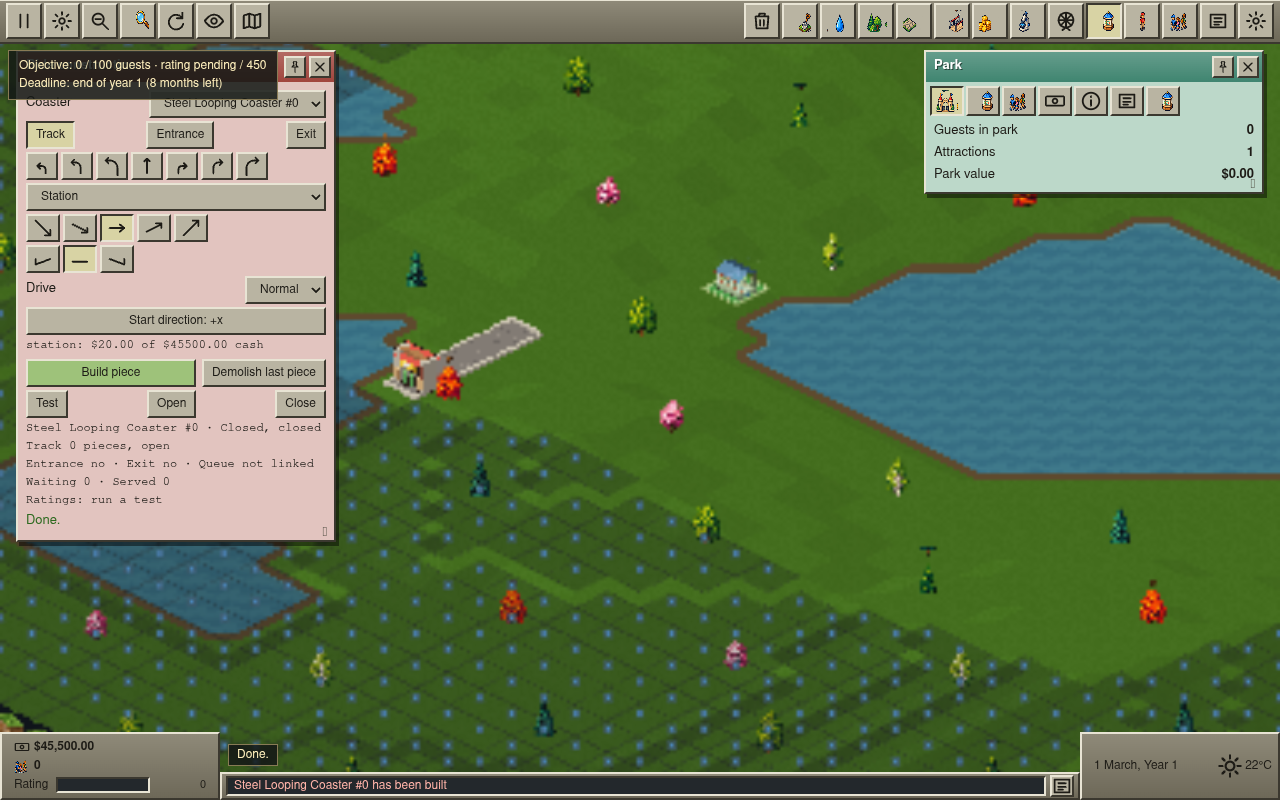
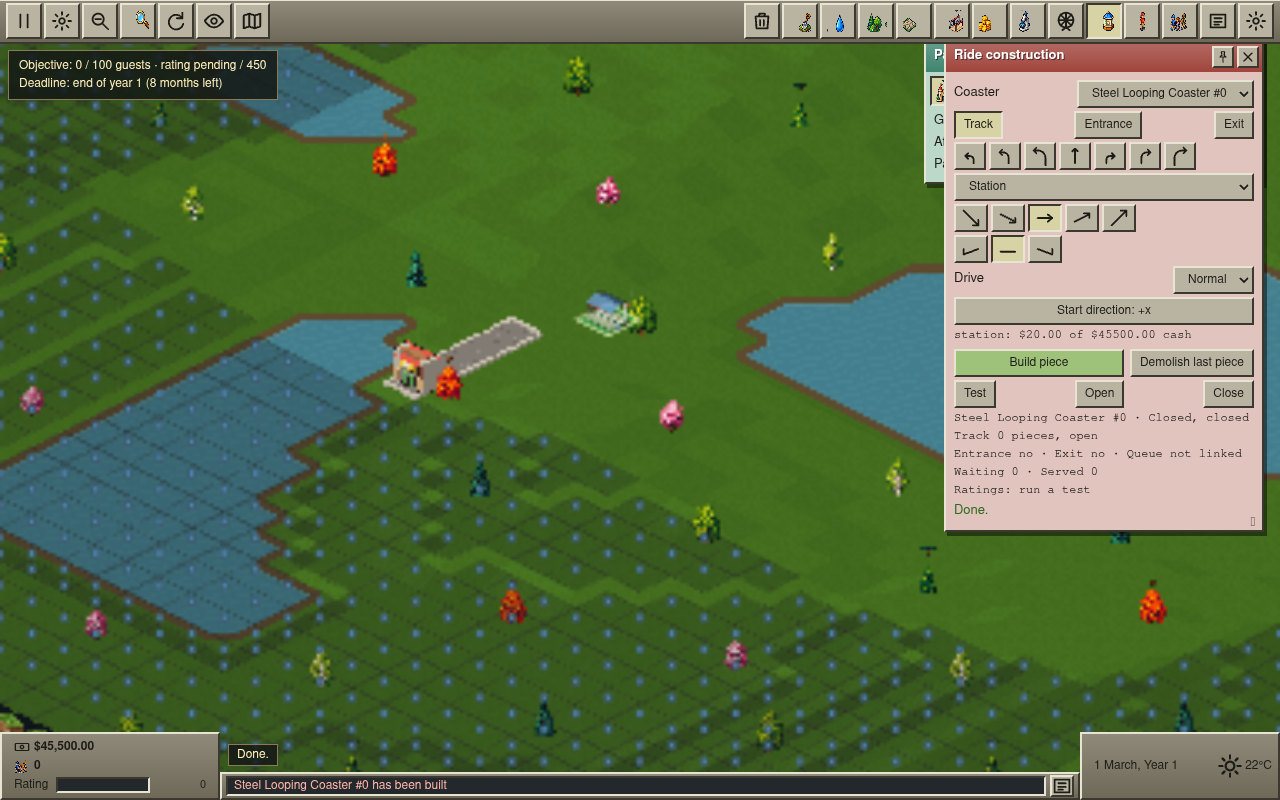
Avoid restoring windows over active panels

diff --git a/src/ui/window-manager.ts b/src/ui/window-manager.ts
@@ -1,6 +1,7 @@
 import { element, iconButton } from './dom';
 import type { IconName } from './icons';
 import {
+  BOTTOM_INSET,
   MOBILE_QUERY,
   TOP_INSET,
   cascadePosition,
@@ -203,19 +204,46 @@ export class WindowManager {
     this.layer.append(win.root);
     const fallback = cascadePosition(this.opened++, window.innerWidth, window.innerHeight);
     const remembered = this.positions.get(spec.id);
+    const openingPointer = this.pointer;
     const place = (): void => {
       if (!win.root.isConnected || this.mobile) return;
       const bounds = win.root.getBoundingClientRect();
       const size = { width: bounds.width || spec.width || 340, height: bounds.height || 260 };
-      const at = remembered
+      const placementSize = remembered
+        ? size
+        : {
+            width: size.width,
+            height: Math.max(size.height, window.innerHeight - TOP_INSET - BOTTOM_INSET - 4),
+          };
+      const occupied = [...this.windows.values()]
+        .filter((other) => other !== win)
+        .map((other) => {
+          const rect = other.root.getBoundingClientRect();
+          return { x: rect.left, y: rect.top, width: rect.width, height: rect.height };
+        });
+      const rememberedAt = remembered
         ? clampPosition(remembered.x, remembered.y, size, window.innerWidth, window.innerHeight)
-        : positionAwayFromPoint(
-            fallback,
-            size,
-            this.pointer,
-            window.innerWidth,
-            window.innerHeight,
-          );
+        : undefined;
+      const rememberedIsOccupied =
+        rememberedAt !== undefined &&
+        occupied.some(
+          (rect) =>
+            rememberedAt.x < rect.x + rect.width &&
+            rememberedAt.x + size.width > rect.x &&
+            rememberedAt.y < rect.y + rect.height &&
+            rememberedAt.y + size.height > rect.y,
+        );
+      const at =
+        rememberedAt && !rememberedIsOccupied
+          ? rememberedAt
+          : positionAwayFromPoint(
+              fallback,
+              remembered ? size : placementSize,
+              openingPointer,
+              window.innerWidth,
+              window.innerHeight,
+              occupied,
+            );
       win.root.style.setProperty('--x', `${at.x}px`);
       win.root.style.setProperty('--y', `${at.y}px`);
     };
@@ -263,7 +291,7 @@ export class WindowManager {
     const wasCollapsed = preserveCollapsed && win.root.classList.contains('collapsed');
     win.root.style.zIndex = String(win.pinned ? 1000 + ++this.z : ++this.z);
     for (const other of this.windows.values()) other.root.classList.toggle('front', other === win);
-    this.relayout();
+    if (this.mobile) this.relayout();
     if (wasCollapsed && !win.pinned) win.root.classList.add('collapsed');
   }
 

diff --git a/src/ui/window-layout.ts b/src/ui/window-layout.ts
@@ -5,7 +5,7 @@ export const MOBILE_QUERY = `(max-width: ${MOBILE_MAX_WIDTH}px)`;
 
 /** Space reserved above (toolbar) and below (status bar) the windows on desktop. */
 export const TOP_INSET = 40;
-const BOTTOM_INSET = 68;
+export const BOTTOM_INSET = 68;
 const GRAB = 40;
 
 export function isMobileWidth(width: number): boolean {
@@ -39,6 +39,7 @@ export function positionAwayFromPoint(
   point: Point,
   viewportWidth: number,
   viewportHeight: number,
+  occupied: ReadonlyArray<Point & { width: number; height: number }> = [],
 ): Point {
   const candidates = [
     { x: 16, y: TOP_INSET + 10 },
@@ -52,14 +53,31 @@ export function positionAwayFromPoint(
     point.y <= TOP_INSET + 180
       ? candidates.filter((candidate) => candidate.y > viewportHeight / 3)
       : candidates.filter((candidate) => candidate.y <= viewportHeight / 3);
-  const clear = vertical.filter(
+  const free = candidates.filter(
+    (candidate) =>
+      !occupied.some(
+        (rect) =>
+          candidate.x < rect.x + rect.width &&
+          candidate.x + size.width > rect.x &&
+          candidate.y < rect.y + rect.height &&
+          candidate.y + size.height > rect.y,
+      ),
+  );
+  const clear = free.filter(
     (candidate) =>
       point.x < candidate.x - 24 ||
       point.x > candidate.x + size.width + 24 ||
       point.y < candidate.y - 24 ||
       point.y > candidate.y + size.height + 24,
   );
-  const options = clear.length ? clear : [fallback];
+  const preferred = vertical.filter((candidate) => clear.includes(candidate));
+  const options = preferred.length
+    ? preferred
+    : clear.length
+      ? clear
+      : free.length
+        ? free
+        : [clampPosition(fallback.x, fallback.y, size, viewportWidth, viewportHeight)];
   return options.reduce((best, candidate) => {
     const distance = (at: Point): number =>
       Math.hypot(at.x + size.width / 2 - point.x, at.y + size.height / 2 - point.y);

diff --git a/e2e/deferred-ui.spec.ts b/e2e/deferred-ui.spec.ts
@@ -21,6 +21,11 @@ test('management windows, desktop resizing, options and screenshot shortcut', as
   await toolbar.getByRole('button', { name: 'Staff', exact: true }).click();
   const staff = page.locator('[data-panel="staff"]');
   await staff.getByRole('button', { name: 'Hire Handyman' }).click();
+  const mechanicsTab = staff.getByRole('tab', { name: 'Mechanics' });
+  await mechanicsTab.click();
+  await expect(mechanicsTab).toHaveAttribute('aria-selected', 'true');
+  await expect(staff.getByRole('button', { name: 'Hire Mechanic' })).toBeVisible();
+  await staff.getByRole('tab', { name: 'Handymen' }).click();
   const openWorker = staff.getByRole('button', { name: /Open Handyman .* details/ });
   await expect(openWorker).toBeVisible();
   await openWorker.click();
@@ -44,6 +49,9 @@ test('management windows, desktop resizing, options and screenshot shortcut', as
   const guests = toolbar.getByRole('button', { name: 'Guests', exact: true });
   await guests.click();
   const guestWindow = page.locator('[data-panel="guests"]');
+  const guestBounds = await guestWindow.boundingBox();
+  expect(guestBounds).not.toBeNull();
+  expect(guestBounds!.y + guestBounds!.height).toBeLessThanOrEqual(732);
   const beforeWidth = await guestWindow.evaluate((el) => el.getBoundingClientRect().width);
   const resize = guestWindow.getByRole('button', { name: 'Resize Guests window' });
   const resizeBox = await resize.boundingBox();

diff --git a/e2e/p1-ui-fidelity.spec.ts b/e2e/p1-ui-fidelity.spec.ts
@@ -29,7 +29,7 @@ async function placeCoaster(page: Page): Promise<void> {
   const canvas = page.locator('#game');
   const rect = await canvas.boundingBox();
   if (!rect) throw new Error('Game viewport is missing');
-  await page.mouse.click(...tileScreenPoint(rect, 28, 39, 28, 43));
+  await page.mouse.click(...tileScreenPoint(rect, 27, 42, 28, 43));
 }
 
 function tileScreenPoint(
@@ -48,6 +48,7 @@ function tileScreenPoint(
 }
 
 test('desktop construction controls fit above the fold', async ({ page }) => {
+  test.setTimeout(180_000);
   await startStarterPark(page);
   expect(
     await page.locator('#game').evaluate((canvas) => Boolean(canvas.getContext('webgl2'))),
@@ -68,10 +69,7 @@ test('desktop construction controls fit above the fold', async ({ page }) => {
   await page.screenshot({ path: 'docs/playtest/assets/p1-after-coaster-controls.png' });
 
   await page.getByRole('button', { name: 'Pause', exact: true }).click();
-  const gameBounds = await page.locator('#game').boundingBox();
-  if (!gameBounds) throw new Error('Game viewport is missing');
-  await page.mouse.move(...tileScreenPoint(gameBounds, 28, 38, 28, 43));
-  await page.waitForTimeout(100);
+  await expect(panel.getByRole('button', { name: 'Build piece' })).toBeEnabled();
   await panel.getByRole('button', { name: 'Build piece' }).click();
   await expect(page.locator('.coaster-info')).toContainText('Track 1 pieces');
 

diff --git a/src/ui/window-layout.test.ts b/src/ui/window-layout.test.ts
@@ -52,6 +52,34 @@ describe('window layout', () => {
     expect(position.y + size.height).toBeLessThanOrEqual(800 - 68);
   });
 
+  it('clamps the fallback position when no corner clears the pointer', () => {
+    const position = positionAwayFromPoint(
+      { x: 640, y: 700 },
+      { width: 900, height: 700 },
+      { x: 640, y: 400 },
+      1280,
+      800,
+    );
+
+    expect(position.y).toBe(40);
+  });
+
+  it('chooses another clear corner when a window already occupies the preferred one', () => {
+    const size = { width: 340, height: 260 };
+    const point = { x: 1180, y: 20 };
+    const first = positionAwayFromPoint({ x: 788, y: 162 }, size, point, 1280, 800);
+    const second = positionAwayFromPoint({ x: 760, y: 190 }, size, point, 1280, 800, [
+      { ...first, ...size },
+    ]);
+
+    const overlaps =
+      second.x < first.x + size.width &&
+      second.x + size.width > first.x &&
+      second.y < first.y + size.height &&
+      second.y + size.height > first.y;
+    expect(overlaps).toBe(false);
+  });
+
   it('limits four-times speed to two-times while construction is active', () => {
     expect(effectiveGameSpeed(4, true)).toBe(2);
     expect(effectiveGameSpeed(4, false)).toBe(4);

diff --git a/e2e/starter-playtest.spec.ts b/e2e/starter-playtest.spec.ts
@@ -141,6 +141,16 @@ test('plays the starter park shell and exercises save file round trips', async (
   await screenshot('08-finances');
 
   await toolbarButton('Park').click();
+  const financeBounds = await page.locator('[data-panel="finance"]').boundingBox();
+  const parkBounds = await page.locator('[data-panel="park"]').boundingBox();
+  expect(financeBounds).not.toBeNull();
+  expect(parkBounds).not.toBeNull();
+  expect(
+    parkBounds!.x + parkBounds!.width <= financeBounds!.x ||
+      financeBounds!.x + financeBounds!.width <= parkBounds!.x ||
+      parkBounds!.y + parkBounds!.height <= financeBounds!.y ||
+      financeBounds!.y + financeBounds!.height <= parkBounds!.y,
+  ).toBe(true);
   await page.getByRole('tab', { name: 'Admission' }).click();
   await page.getByRole('button', { name: 'Pay to enter' }).click();
   const admission = page.getByRole('textbox', { name: 'Park admission' });
